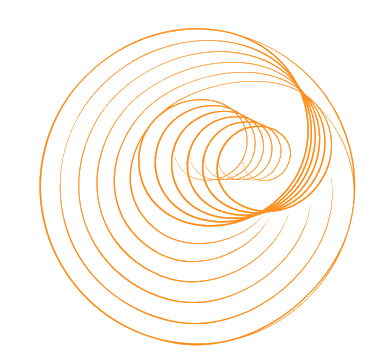
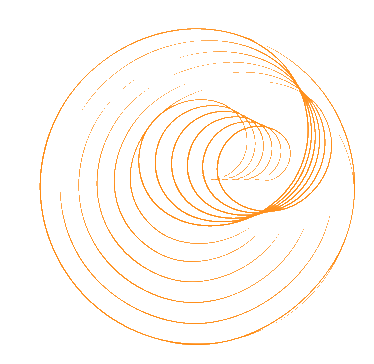
Fix z-index layering and nuke PNG backgrounds
- Circles at z-[1]: visible above section background color
- Content wrappers at z-[2]: white cards render on top of circles
- Aggressively cleared all PNG backgrounds: alpha<160 → transparent,
  corner-color-matching pixels → transparent
- Fixed legacy about page circle PNG too

diff --git a/src/app/services/organizations/page.tsx b/src/app/services/organizations/page.tsx
@@ -46,8 +46,8 @@ export default function OrganizationsPage() {
       {/* Section 2 Four pillars as white icon cards (subtle-bg) */}
       <ScrollReveal>
       <div className="relative">
-        <DecorativeCircle className="absolute hidden lg:block left-[-100px] top-[10%]" design="spirograph" color="teal" size={480} animation="spin-slow" opacity={0.7} />
-        <div className="relative">
+        <DecorativeCircle className="absolute hidden lg:block z-[1] left-[-100px] top-[10%]" design="spirograph" color="teal" size={480} animation="spin-slow" opacity={0.7} />
+        <div className="relative z-[2]">
           <Section background="subtle-bg">
             <h2 className="font-heading text-[1.875rem] font-bold leading-[1.3] text-text mb-xl text-center section-heading-accent">
               {ORGANIZATIONS.pillarsHeading}
@@ -83,8 +83,8 @@ export default function OrganizationsPage() {
       {/* Section 3 Service cards (bg) */}
       <ScrollReveal>
       <div className="relative">
-        <DecorativeCircle className="absolute hidden lg:block right-[-80px] top-[25%]" design="diagonal-lines" color="orange" size={340} animation="spin-slow" opacity={0.7} />
-        <div className="relative">
+        <DecorativeCircle className="absolute hidden lg:block z-[1] right-[-80px] top-[25%]" design="diagonal-lines" color="orange" size={340} animation="spin-slow" opacity={0.7} />
+        <div className="relative z-[2]">
           <Section background="bg">
             <h2 className="font-heading text-[1.875rem] font-bold leading-[1.3] text-text mb-xl section-heading-accent">
               {ORGANIZATIONS.servicesHeading}
@@ -125,8 +125,8 @@ export default function OrganizationsPage() {
       {/* Section 4 Lectures (subtle-bg) */}
       <ScrollReveal>
       <div className="relative">
-        <DecorativeCircle className="absolute hidden lg:block left-[-80px] top-[15%]" design="dots-dense" color="teal" size={380} animation="spin-slow" opacity={0.7} />
-        <div className="relative">
+        <DecorativeCircle className="absolute hidden lg:block z-[1] left-[-80px] top-[15%]" design="dots-dense" color="teal" size={380} animation="spin-slow" opacity={0.7} />
+        <div className="relative z-[2]">
           <Section background="subtle-bg">
             <h2 className="font-heading text-[1.875rem] font-bold leading-[1.3] text-text mb-md section-heading-accent">
               {LECTURES.sectionHeading}

diff --git a/src/app/workshops/page.tsx b/src/app/workshops/page.tsx
@@ -37,8 +37,8 @@ export default function WorkshopsPage() {
       {/* Section 2 Three info cards (subtle-bg) */}
       <ScrollReveal>
       <div className="relative">
-        <DecorativeCircle className="absolute hidden lg:block left-[-100px] top-[-40px]" design="swirl-arcs" color="orange" size={480} animation="spin-slow" opacity={0.7} />
-        <div className="relative">
+        <DecorativeCircle className="absolute hidden lg:block z-[1] left-[-100px] top-[-40px]" design="swirl-arcs" color="orange" size={480} animation="spin-slow" opacity={0.7} />
+        <div className="relative z-[2]">
           <Section background="subtle-bg">
             <div className="grid grid-cols-1 md:grid-cols-3 gap-lg">
               {WORKSHOPS.infoCards.map((card) => {
@@ -93,8 +93,8 @@ export default function WorkshopsPage() {
       {/* Section 3 Lectures (bg) */}
       <ScrollReveal>
       <div className="relative">
-        <DecorativeCircle className="absolute hidden lg:block right-[-80px] bottom-[-60px]" design="spirograph" color="teal" size={340} animation="spin-slow" opacity={0.7} />
-        <div className="relative">
+        <DecorativeCircle className="absolute hidden lg:block z-[1] right-[-80px] bottom-[-60px]" design="spirograph" color="teal" size={340} animation="spin-slow" opacity={0.7} />
+        <div className="relative z-[2]">
           <Section background="bg">
             <h2 className="font-heading text-[1.875rem] font-bold leading-[1.3] text-text mb-md section-heading-accent">
               {LECTURES.sectionHeading}

diff --git a/src/app/services/page.tsx b/src/app/services/page.tsx
@@ -23,8 +23,8 @@ export default function ServicesPage() {
     <>
       {/* Section 1 Page header (bg) */}
       <div className="relative">
-        <DecorativeCircle className="absolute hidden lg:block left-[-100px] top-[5%]" design="dots-spiral" color="orange" size={480} animation="spin-slow" opacity={0.7} />
-        <div className="relative">
+        <DecorativeCircle className="absolute hidden lg:block z-[1] left-[-100px] top-[5%]" design="dots-spiral" color="orange" size={480} animation="spin-slow" opacity={0.7} />
+        <div className="relative z-[2]">
           <Section background="bg">
             <div className="max-w-[var(--max-width-text)]">
               <h1 className="font-heading text-[2.25rem] font-bold leading-[1.2] text-text">
@@ -42,8 +42,8 @@ export default function ServicesPage() {
       {/* Section 2 Service cards (subtle-bg) */}
       <ScrollReveal>
       <div className="relative">
-        <DecorativeCircle className="absolute hidden lg:block right-[-80px] bottom-[-40px]" design="swirl-arcs" color="teal" size={340} animation="spin-slow" opacity={0.7} />
-        <div className="relative">
+        <DecorativeCircle className="absolute hidden lg:block z-[1] right-[-80px] bottom-[-40px]" design="swirl-arcs" color="teal" size={340} animation="spin-slow" opacity={0.7} />
+        <div className="relative z-[2]">
           <Section background="subtle-bg">
             <div className="grid grid-cols-1 lg:grid-cols-3 gap-lg">
               {SERVICES.cards.map((service) => {

diff --git a/src/app/page.tsx b/src/app/page.tsx
@@ -25,9 +25,9 @@ export default function HomePage() {
           size={480}
           animation="spin-slow"
           opacity={0.7}
-          className="absolute hidden lg:block left-[-100px] bottom-[-80px]"
+          className="absolute hidden lg:block z-[1] left-[-100px] bottom-[-80px]"
         />
-        <div className="relative">
+        <div className="relative z-[2]">
           <HeroSection
             name={HOME.hero.name}
             title={HOME.hero.title}
@@ -48,9 +48,9 @@ export default function HomePage() {
           size={340}
           animation="spin-slow"
           opacity={0.7}
-          className="absolute hidden lg:block right-[-80px] top-[-60px]"
+          className="absolute hidden lg:block z-[1] right-[-80px] top-[-60px]"
         />
-        <div className="relative">
+        <div className="relative z-[2]">
           <RoutingCards
             sectionHeading={HOME.routingCards.sectionHeading}
             cards={[...HOME.routingCards.cards]}
@@ -63,7 +63,7 @@ export default function HomePage() {
       <ScrollReveal>
       <div className="relative">
 
-        <div className="relative">
+        <div className="relative z-[2]">
           <TrustBar
             badges={[...HOME.trustBar]}
           />

diff --git a/src/app/about/page.tsx b/src/app/about/page.tsx
@@ -29,7 +29,7 @@ export default function AboutPage() {
       <div className="relative">
         {/* Legacy decorative orange half-circle accent — DO NOT MODIFY */}
         <div
-          className="hidden lg:block absolute left-[-100px] top-1/2 -translate-y-1/2 w-[500px] h-[500px] pointer-events-none opacity-[0.7] animate-[spin-slow_45s_linear_infinite] rounded-full overflow-hidden"
+          className="hidden lg:block absolute left-[-100px] top-1/2 -translate-y-1/2 w-[500px] h-[500px] pointer-events-none opacity-[0.7] z-[1] animate-[spin-slow_45s_linear_infinite] rounded-full overflow-hidden"
           aria-hidden="true"
         >
           <Image
@@ -77,9 +77,9 @@ export default function AboutPage() {
           size={350}
           animation="spin-slow"
           opacity={0.7}
-          className="absolute hidden lg:block right-[-80px] top-[15%]"
+          className="absolute hidden lg:block z-[1] right-[-80px] top-[15%]"
         />
-        <div className="relative">
+        <div className="relative z-[2]">
           <Section background="subtle-bg">
             <div className="flex flex-col lg:flex-row gap-xl lg:gap-2xl items-stretch">
               {/* Text column */}

diff --git a/src/app/contact/page.tsx b/src/app/contact/page.tsx
@@ -23,19 +23,19 @@ export default function ContactPage() {
       <div className="relative">
         {/* Decorative circles */}
         <div
-          className="hidden lg:block absolute right-[-80px] top-[10%] pointer-events-none"
+          className="hidden lg:block absolute right-[-80px] top-[10%] pointer-events-none z-[1]"
           aria-hidden="true"
         >
           <DecorativeCircle design="dots-dense" color="teal" size={450} animation="spin-slow" opacity={0.7} />
         </div>
         <div
-          className="hidden lg:block absolute left-[-60px] bottom-[5%] pointer-events-none"
+          className="hidden lg:block absolute left-[-60px] bottom-[5%] pointer-events-none z-[1]"
           aria-hidden="true"
         >
           <DecorativeCircle design="diagonal-lines" color="orange" size={320} animation="spin-slow" opacity={0.7} />
         </div>
 
-        <div className="relative">
+        <div className="relative z-[2]">
           <Section background="bg">
             <div className="max-w-[var(--max-width-text)]">
               <h1 className="font-heading text-[2.25rem] font-bold leading-[1.2] text-text">

diff --git a/src/app/faq/page.tsx b/src/app/faq/page.tsx
@@ -21,7 +21,7 @@ export default function FAQPage() {
         <div className="hidden lg:block absolute right-[-80px] bottom-[-60px] pointer-events-none" aria-hidden="true">
           <DecorativeCircle design="split-rings" color="teal" size={320} animation="spin-slow" opacity={0.7} />
         </div>
-        <div className="relative">
+        <div className="relative z-[2]">
           <Section background="bg">
             <div className="max-w-[var(--max-width-text)]">
               <h1 className="font-heading text-[2.25rem] font-bold leading-[1.2] text-text">
